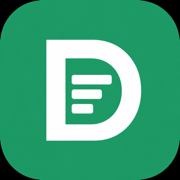
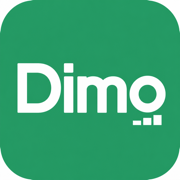
Update landing page and branding for Google OAuth verification
- Add explicit homepage title and purpose copy for OAuth review
- Refresh app icons and OAuth logo to spell Dimo on a green tile
- Expand Google OAuth checklist with domain verification steps

diff --git a/app/components/marketing/LandingPage.tsx b/app/components/marketing/LandingPage.tsx
@@ -90,16 +90,18 @@ export function LandingPage({
         </header>
 
         <section className="relative mx-auto max-w-3xl px-6 pb-10 pt-10 sm:pt-16">
-          <p className="mb-4 font-display text-sm font-semibold uppercase tracking-[0.14em] text-green">
-            Dimo
-          </p>
           <h1 className="max-w-xl font-display text-4xl font-semibold leading-[1.1] tracking-tight text-ink sm:text-5xl">
-            Track spending without the clutter.
+            Dimo — personal expense tracker
           </h1>
           <p className="mt-5 max-w-xl text-base leading-7 text-body sm:text-lg">
-            Dimo is a personal expense tracker for everyday spending, budgets,
-            recurring bills, and stats. Your data stays on your devices and
+            Dimo helps you track everyday spending, budgets, recurring bills,
+            and stats without clutter. Your data stays on your devices and
             syncs privately when you sign in.
+          </p>
+          <p className="mt-3 max-w-xl text-[15px] leading-7 text-body">
+            Purpose: a calm personal finance app for logging expenses, setting
+            category budgets, managing recurring bills, reviewing spend stats,
+            and optionally connecting Gmail on iOS for purchase suggestions.
           </p>
 
           <div

diff --git a/store/GOOGLE_OAUTH.md b/store/GOOGLE_OAUTH.md
@@ -3,27 +3,44 @@
 Homepage: `https://dimo-silk.vercel.app`  
 Privacy: `https://dimo-silk.vercel.app/privacy`  
 Terms: `https://dimo-silk.vercel.app/terms`  
-OAuth logo file to upload: `store/oauth-logo.png` (also `public/brand/dimo-logo-512.png`)
+Logo to upload in Google Cloud: `store/oauth-logo.png`
 
-## After deploying the site
+The Cloud Console dialog listing old issues does **not** clear until you finish
+the steps below and click **Proceed** for a new review.
 
-1. Confirm the homepage shows **Dimo**, the product description, and sign-in **without** requiring login.
-2. Upload `store/oauth-logo.png` (or `public/brand/dimo-logo-512.png`) as the OAuth consent screen logo in Google Cloud Console.
-3. Keep the OAuth app name exactly **Dimo**.
+## Checklist (do in order)
 
-## Domain ownership (required)
+### 1. Redeploy the website
+Push/deploy so the homepage H1 reads **“Dimo — personal expense tracker”** and
+shows the purpose section. Confirm in an incognito window.
 
-Google must see that you control `dimo-silk.vercel.app`:
+### 2. Verify domain ownership (this is why issue #1 remains)
+The meta tag alone is not enough — Search Console must show **Verified**.
 
-1. Open [Google Search Console](https://search.google.com/search-console).
-2. Add property → URL prefix → `https://dimo-silk.vercel.app`.
-3. Choose **HTML tag** verification.
-4. Copy the content value from the meta tag (the long token).
-5. In Vercel → Project → Settings → Environment Variables, set:
+1. Open [Google Search Console](https://search.google.com/search-console) with the
+   **same Google account** that owns the Cloud project.
+2. Property: URL prefix `https://dimo-silk.vercel.app`
+3. If not verified yet: use HTML tag (already on the site) → **Verify**.
+4. You must see a green **Ownership verified** state.
+5. In Google Cloud → OAuth consent screen → Branding, confirm
+   `dimo-silk.vercel.app` is an authorized domain / homepage URL.
 
-   `NEXT_PUBLIC_GOOGLE_SITE_VERIFICATION` = `<token>`
+### 3. Upload the new logo
+In Google Cloud → OAuth consent screen → Branding → App logo, upload:
 
-6. Redeploy, then click Verify in Search Console.
-7. Back in Google Cloud OAuth branding, choose **I have fixed the issues** → Proceed.
+`store/oauth-logo.png`
 
-Alternate: Search Console “HTML file” method — download the file Google gives you into `public/` and redeploy, then verify.
+(This file spells **Dimo** on a green tile — not a plain letter D.)
+
+App name must stay exactly: **Dimo**
+
+### 4. Request re-verification
+In the issues dialog:
+
+1. Select **I have fixed the issues**
+2. Click **Proceed**
+3. Wait for Google’s new review (can take days)
+
+## Why the dialog still lists issues
+That screen is a snapshot of the **last failed** attempt. Website fixes and a
+verified Search Console property only count after you click Proceed again.
